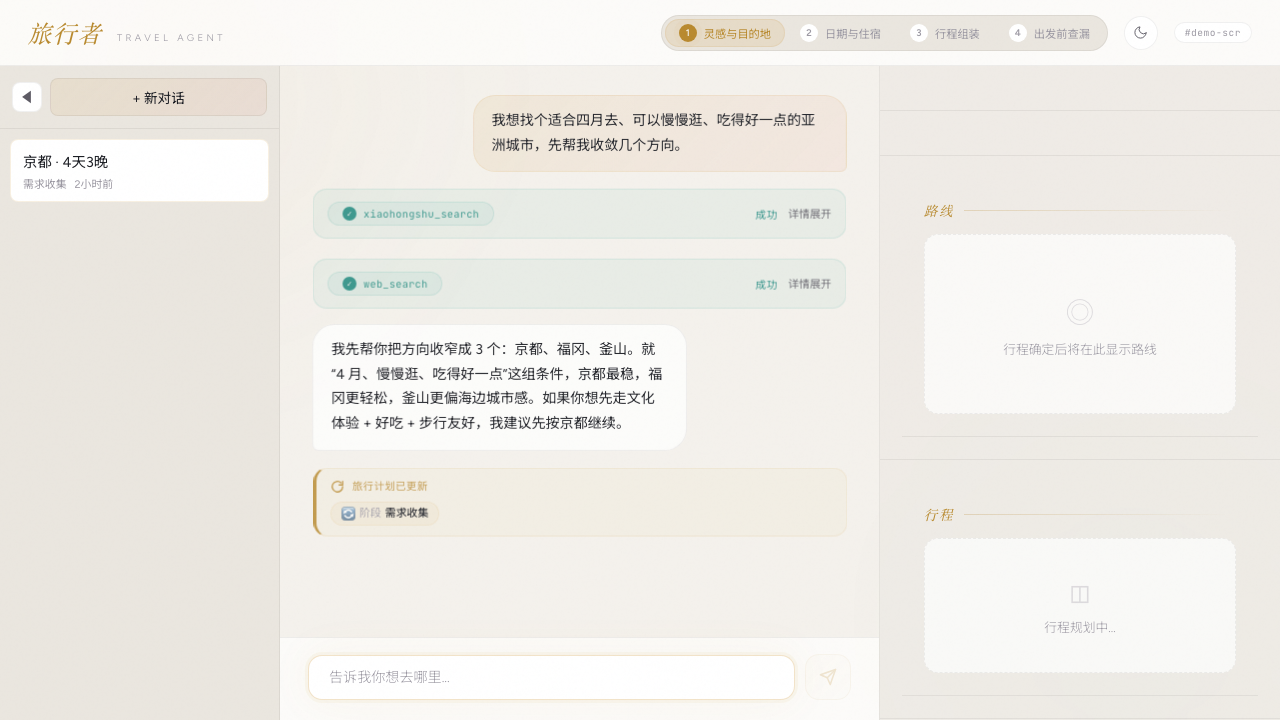
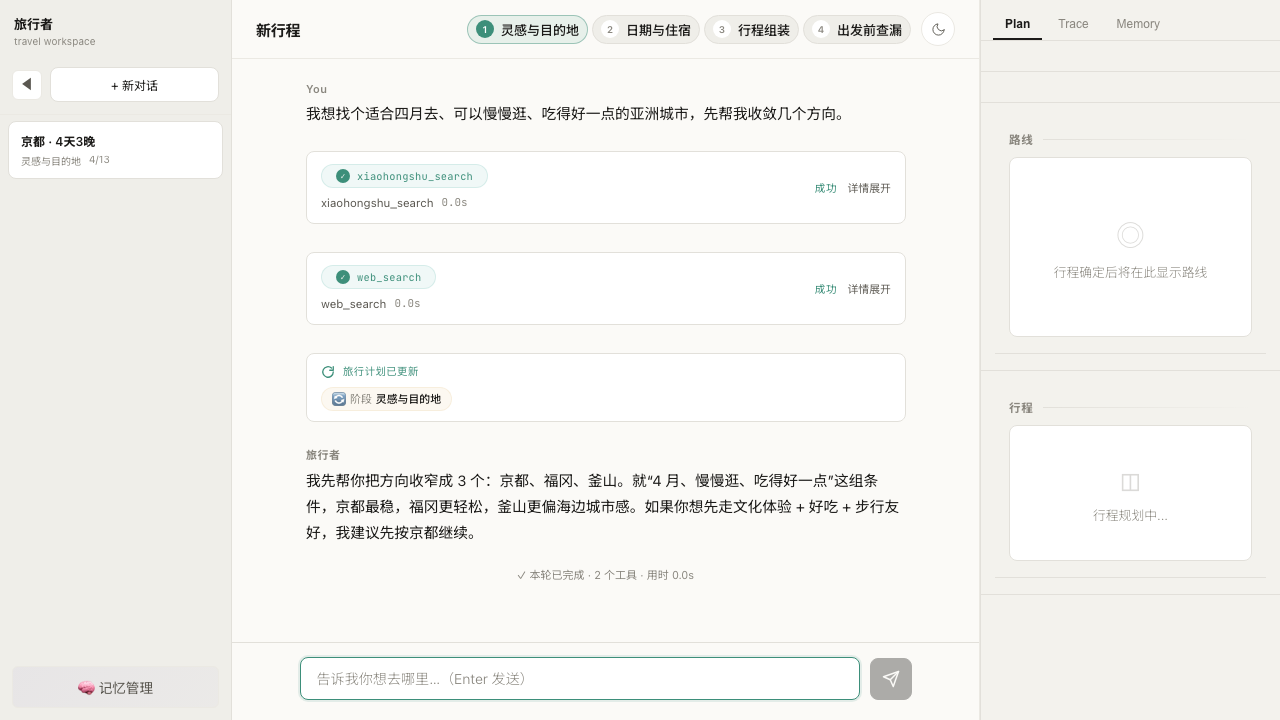
✨ feat(ui): lock craft-paper shell and polish phase chips
Remove public shell switcher, refine active/completed phase nodes,
add root .env.example with README onboarding, and fix demo brand selector.

diff --git a/frontend/src/App.tsx b/frontend/src/App.tsx
@@ -18,14 +18,9 @@ type PhaseOverride = {
   expiresAt: number
 } | null
 
-type UiShell = 'craft-paper' | 'solstice'
 type UiTheme = 'light' | 'dark'
 
 function useUiAppearance() {
-  const [shell, setShell] = useState<UiShell>(() => {
-    const saved = localStorage.getItem('ui-shell')
-    return saved === 'solstice' ? 'solstice' : 'craft-paper'
-  })
   const [theme, setTheme] = useState<UiTheme>(() => {
     const saved = localStorage.getItem('ui-theme')
     if (saved === 'light' || saved === 'dark') return saved
@@ -35,24 +30,19 @@ function useUiAppearance() {
   })
 
   useEffect(() => {
-    document.documentElement.setAttribute('data-shell', shell)
+    // Product shell is always craft-paper; no public shell switcher.
+    document.documentElement.setAttribute('data-shell', 'craft-paper')
     document.documentElement.setAttribute('data-theme', theme)
-    localStorage.setItem('ui-shell', shell)
     localStorage.setItem('ui-theme', theme)
-  }, [shell, theme])
+    localStorage.removeItem('ui-shell')
+  }, [theme])
 
   const toggleTheme = useCallback(() => setTheme((t) => (t === 'dark' ? 'light' : 'dark')), [])
-  const toggleShell = useCallback(
-    () => setShell((s) => (s === 'craft-paper' ? 'solstice' : 'craft-paper')),
-    [],
-  )
 
   return {
-    shell,
     theme,
     dark: theme === 'dark',
     toggleTheme,
-    toggleShell,
   }
 }
 
@@ -69,20 +59,6 @@ function ThemeToggle({ dark, onToggle }: { dark: boolean; onToggle: () => void }
           <path d="M21 12.79A9 9 0 1 1 11.21 3 7 7 0 0 0 21 12.79z" />
         </svg>
       )}
-    </button>
-  )
-}
-
-function ShellToggle({ shell, onToggle }: { shell: UiShell; onToggle: () => void }) {
-  const label = shell === 'craft-paper' ? 'Craft' : 'Solstice'
-  return (
-    <button
-      className="theme-toggle shell-toggle"
-      onClick={onToggle}
-      title={shell === 'craft-paper' ? '切换 Solstice 壳' : '切换 Craft Paper 壳'}
-      style={{ width: 'auto', borderRadius: 17, padding: '0 10px', fontSize: '0.65rem', letterSpacing: '0.04em' }}
-    >
-      {label}
     </button>
   )
 }
@@ -108,7 +84,7 @@ export default function App() {
   const [rightTab, setRightTab] = useState<'plan' | 'trace' | 'memory'>('plan')
   const [traceTrigger, setTraceTrigger] = useState(0)
   const [memoryRefreshTrigger, setMemoryRefreshTrigger] = useState(0)
-  const { shell, dark, toggleTheme, toggleShell } = useUiAppearance()
+  const { dark, toggleTheme } = useUiAppearance()
   const initializedRef = useRef(false)
   const showPhase2Workbench = Boolean(
     plan && (
@@ -329,13 +305,7 @@ export default function App() {
           onStreamEnd={handleStreamEnd}
           documentTitle={plan?.destination ? `${plan.destination}规划` : '新行程'}
           phaseSlot={plan ? <PhaseIndicator currentPhase={plan.phase} overridePhase={phaseOverride?.phase ?? null} /> : null}
-          headerActions={
-            <>
-              <ShellToggle shell={shell} onToggle={toggleShell} />
-              <ThemeToggle dark={dark} onToggle={toggleTheme} />
-              <span className="session-badge">#{sessionId.slice(0, 8)}</span>
-            </>
-          }
+          headerActions={<ThemeToggle dark={dark} onToggle={toggleTheme} />}
         />
         <div className="right-panel">
           <div className="right-panel-tabs">

diff --git a/frontend/src/styles/index.css b/frontend/src/styles/index.css
@@ -2824,17 +2824,26 @@ html[data-shell="craft-paper"] .phase-node {
   border: 1px solid var(--border);
 }
 html[data-shell="craft-paper"] .phase-node.active {
-  background: var(--accent-ink);
-  color: var(--bg-main);
+  background: rgba(61, 143, 122, 0.10);
+  color: var(--text-primary);
+  border-color: rgba(61, 143, 122, 0.45);
+  font-weight: 600;
   animation: none;
+  box-shadow: none;
 }
 html[data-shell="craft-paper"] .phase-node.active .phase-num {
-  background: transparent;
-  color: inherit;
+  background: var(--accent);
+  color: #fff;
   box-shadow: none;
   animation: none;
 }
 html[data-shell="craft-paper"] .phase-node.completed {
+  color: var(--accent);
+  background: transparent;
+  border-color: transparent;
+}
+html[data-shell="craft-paper"] .phase-node.completed .phase-num {
+  background: rgba(61, 143, 122, 0.15);
   color: var(--accent);
 }
 

diff --git a/frontend/src/main.tsx b/frontend/src/main.tsx
@@ -6,8 +6,6 @@ import './styles/index.css'
 // Apply shell/theme before first paint to avoid FOUC
 ;(() => {
   const root = document.documentElement
-  const savedShell = localStorage.getItem('ui-shell')
-  const shell = savedShell === 'solstice' ? 'solstice' : 'craft-paper'
   const savedTheme = localStorage.getItem('ui-theme')
   let theme = savedTheme === 'light' || savedTheme === 'dark' ? savedTheme : null
   if (!theme) {
@@ -15,7 +13,7 @@ import './styles/index.css'
     if (legacy === 'light' || legacy === 'dark') theme = legacy
     else theme = window.matchMedia('(prefers-color-scheme: dark)').matches ? 'dark' : 'light'
   }
-  root.setAttribute('data-shell', shell)
+  root.setAttribute('data-shell', 'craft-paper')
   root.setAttribute('data-theme', theme)
 })()
 

diff --git a/scripts/demo/demo-full-flow.spec.ts b/scripts/demo/demo-full-flow.spec.ts
@@ -274,7 +274,7 @@ test('demo full flow covers recommendation, planning, and backtrack', async ({ p
   await installDemoRoutes(page, fixture)
 
   await page.goto('/')
-  await expect(page.locator('.brand-name')).toBeVisible({ timeout: LONG_TIMEOUT })
+  await expect(page.locator('.inbox-brand-name')).toBeVisible({ timeout: LONG_TIMEOUT })
   await expect(page.locator('.input-bar input')).toBeVisible({ timeout: LONG_TIMEOUT })
 
   const phase1Message = fixture.steps[0]

diff --git a/frontend/vite.config.ts b/frontend/vite.config.ts
@@ -5,8 +5,10 @@ export default defineConfig({
   plugins: [react()],
   server: {
     host: '0.0.0.0',
+    port: Number(process.env.VITE_PORT) || 5173,
+    strictPort: false,
     proxy: {
-      '/api': 'http://localhost:8000',
+      '/api': process.env.VITE_API_PROXY || 'http://localhost:8000',
     },
   },
 })

diff --git a/README.md b/README.md
@@ -140,25 +140,26 @@ planning) → **Cost & latency tracking** per session. Details:
 Prerequisites: Python ≥ 3.12, [uv](https://docs.astral.sh/uv/) (or pip), Node ≥ 18.
 An OpenAI/Anthropic key is needed **only** for live runs — tests need no keys.
 
-### Backend
+### Configure and run
 
 ```bash
+# From the repository root:
+cp .env.example .env
+cp config.example.yaml config.yaml  # optional non-secret overrides
+
+# Edit .env and fill exactly one live provider key.
+# Tests and scripted demos do not require provider keys.
+
 cd backend
 uv sync --all-extras --frozen
 # fallback without uv:
 # python -m venv .venv && source .venv/bin/activate && pip install -e ".[dev]"
-
-# For live runs, create .env with your provider:
-cat > .env << 'EOF'
-DEFAULT_PROVIDER=openai
-OPENAI_API_KEY=sk-...
-OPENAI_MODEL=gpt-4o
-# Or: DEFAULT_PROVIDER=anthropic / ANTHROPIC_API_KEY / ANTHROPIC_MODEL
-EOF
-
-# Optional non-secret overrides: copy config.example.yaml → ../config.yaml
 uv run uvicorn main:app --reload --port 8000
 ```
+
+`.env` and `config.yaml` belong in the **repository root**, not `backend/`. Environment
+variables override the main provider/model in YAML; `config.yaml` controls non-secret
+runtime settings and per-phase LLM overrides. Both local files are git-ignored.
 
 ### Frontend
 
@@ -227,13 +228,20 @@ and CI release gates remain future work. Details:
 
 | Variable | Required | Description |
 |----------|----------|-------------|
-| `DEFAULT_PROVIDER` | Yes (live runs) | `openai` or `anthropic` |
+| `DEFAULT_PROVIDER` | No | `openai` (default) or `anthropic` |
 | `OPENAI_API_KEY` / `ANTHROPIC_API_KEY` | For the chosen provider | API key |
 | `OPENAI_MODEL` / `ANTHROPIC_MODEL` | No | Model override |
-| `OPENAI_BASE_URL` / `ANTHROPIC_BASE_URL` | No | Custom endpoint |
-| `OPENWEATHER_API_KEY` | No | Weather / feasibility tools |
+| `OPENAI_BASE_URL` / `ANTHROPIC_BASE_URL` | No | SDK-compatible custom endpoint |
+| `GOOGLE_MAPS_API_KEY` | No | POI details, routes, accommodation and availability tools |
+| `OPENWEATHER_API_KEY` | No | Weather and feasibility tools |
 | `TAVILY_API_KEY` | No | Web-search fallback |
+| `AMADEUS_API_KEY` / `AMADEUS_API_SECRET` | No | Amadeus flight-search branch |
+| `FLYAI_API_KEY` | No | FlyAI-backed travel tools |
+| `XHS_CLI_BIN` / `XHS_CLI_TIMEOUT` | No | Xiaohongshu CLI executable and timeout overrides |
 | `OTEL_SDK_DISABLED` | No | `true` disables tracing (used by CI) |
+
+Start from [`.env.example`](.env.example). Keep secrets out of `config.yaml`; its
+`${VARIABLE}` entries resolve values from `.env` or the process environment.
 
 ## Project structure
 

diff --git a/docs/agent/slices/frontend.md b/docs/agent/slices/frontend.md
@@ -13,8 +13,8 @@
   - `RightPanel`：Plan / Trace / Memory 标签页，含 Phase2Workbench、地图、时间线、预算、Trace、MemoryTracePanel。
 - `useSSE` 消费 chat SSE；`useTrace` 拉 trace；`useMemory` 管理 v3 memory API。
 - 设计系统默认是 Craft Paper：纸质文档流、hairline 边框、中性 ink/accent，无玻璃/琥珀光晕。
-- 双属性外观：`html[data-shell="craft-paper"|"solstice"]` + `html[data-theme="light"|"dark"]`；Solstice 为可回滚壳。
-- `main.tsx` 在 React 渲染前从 localStorage 写入 `data-shell` / `data-theme`，避免 FOUC。
+- 产品壳固定为 Craft Paper；仅保留 `html[data-theme="light"|"dark"]` 主题切换，不再提供公开 shell 切换器。
+- `main.tsx` 在 React 渲染前写入固定 `data-shell="craft-paper"` 和 localStorage 中的 `data-theme`，避免 FOUC。
 
 ## 关键组件
 

diff --git a/docs/public-source-boundary.md b/docs/public-source-boundary.md
@@ -46,12 +46,12 @@
 
 ### C. 密钥与本机配置（已在 `.gitignore`）
 
-- `.env`、`.env.local`
+- `.env`、`.env.local`（公开模板 `.env.example` 除外）
 - `config.yaml`、`*.local.yaml`
 - `data/`、运行时截图、测试结果目录等
 - 例外：README / 文档长期引用的截图，先在 `.gitignore` 加白名单再提交（当前仅 `screenshots/demos/phase1-recommendations.png`）
 
-模板用 `config.example.yaml`；文档里只写占位符，不写真实 key。
+密钥模板用 `.env.example`，非密钥运行配置模板用 `config.example.yaml`；文档里只写占位符，不写真实 key。
 
 ---
 
